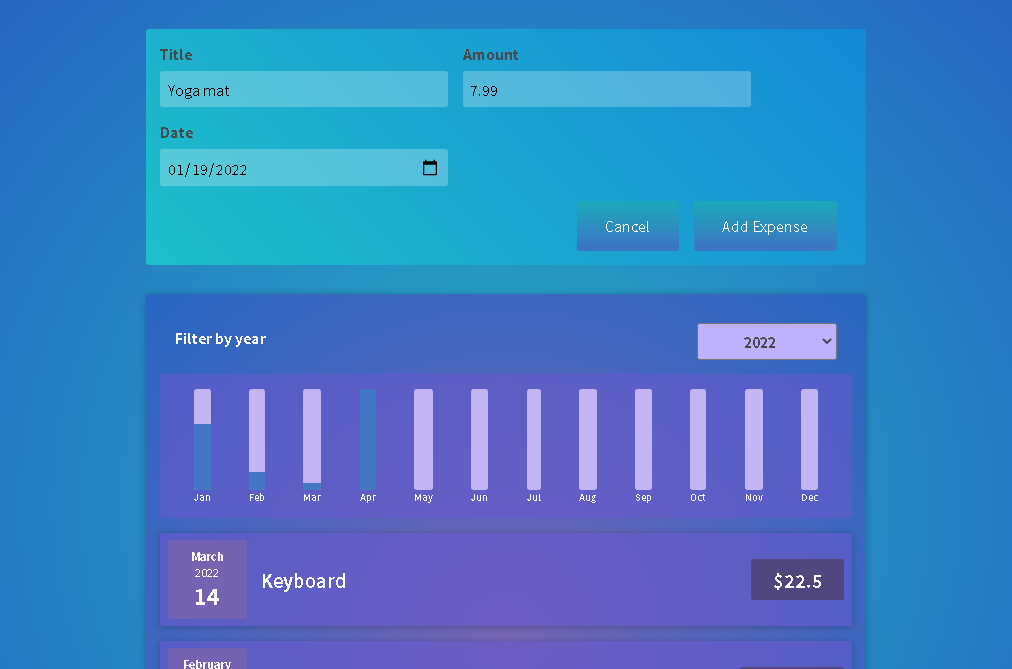
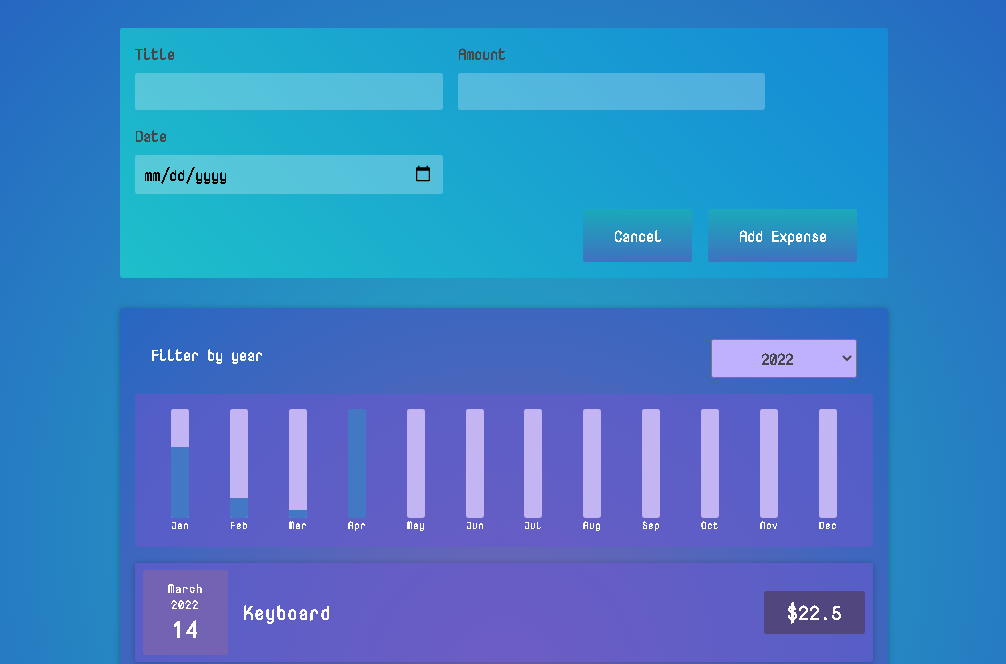
font change

diff --git a/src/index.css b/src/index.css
@@ -1,20 +1,22 @@
-@import url('https://fonts.googleapis.com/css2?family=Noto+Sans+JP:wght@400;700&display=swap');
-
+@import url('https://fonts.googleapis.com/css2?family=Nova+Mono&family=VT323&display=swap');
 * {
   box-sizing: border-box;
 }
 
 html {
-  font-family: 'Noto Sans JP', sans-serif;
+  font-family: 'Nova Mono', monospace;
+  font-size: 120%;
+  font-weight: bold;
 }
 
 body {
   margin: 0;
   background-color: #3f3f3f;
-  background: radial-gradient(#25AFC2, #2666C2)
+  background: radial-gradient(#25afc2, #2666c2);
 }
 
-::-moz-selection { /* Code for Firefox */
+::-moz-selection {
+  /* Code for Firefox */
   color: black;
   background: rgba(255, 255, 255, 0.4);
 }
